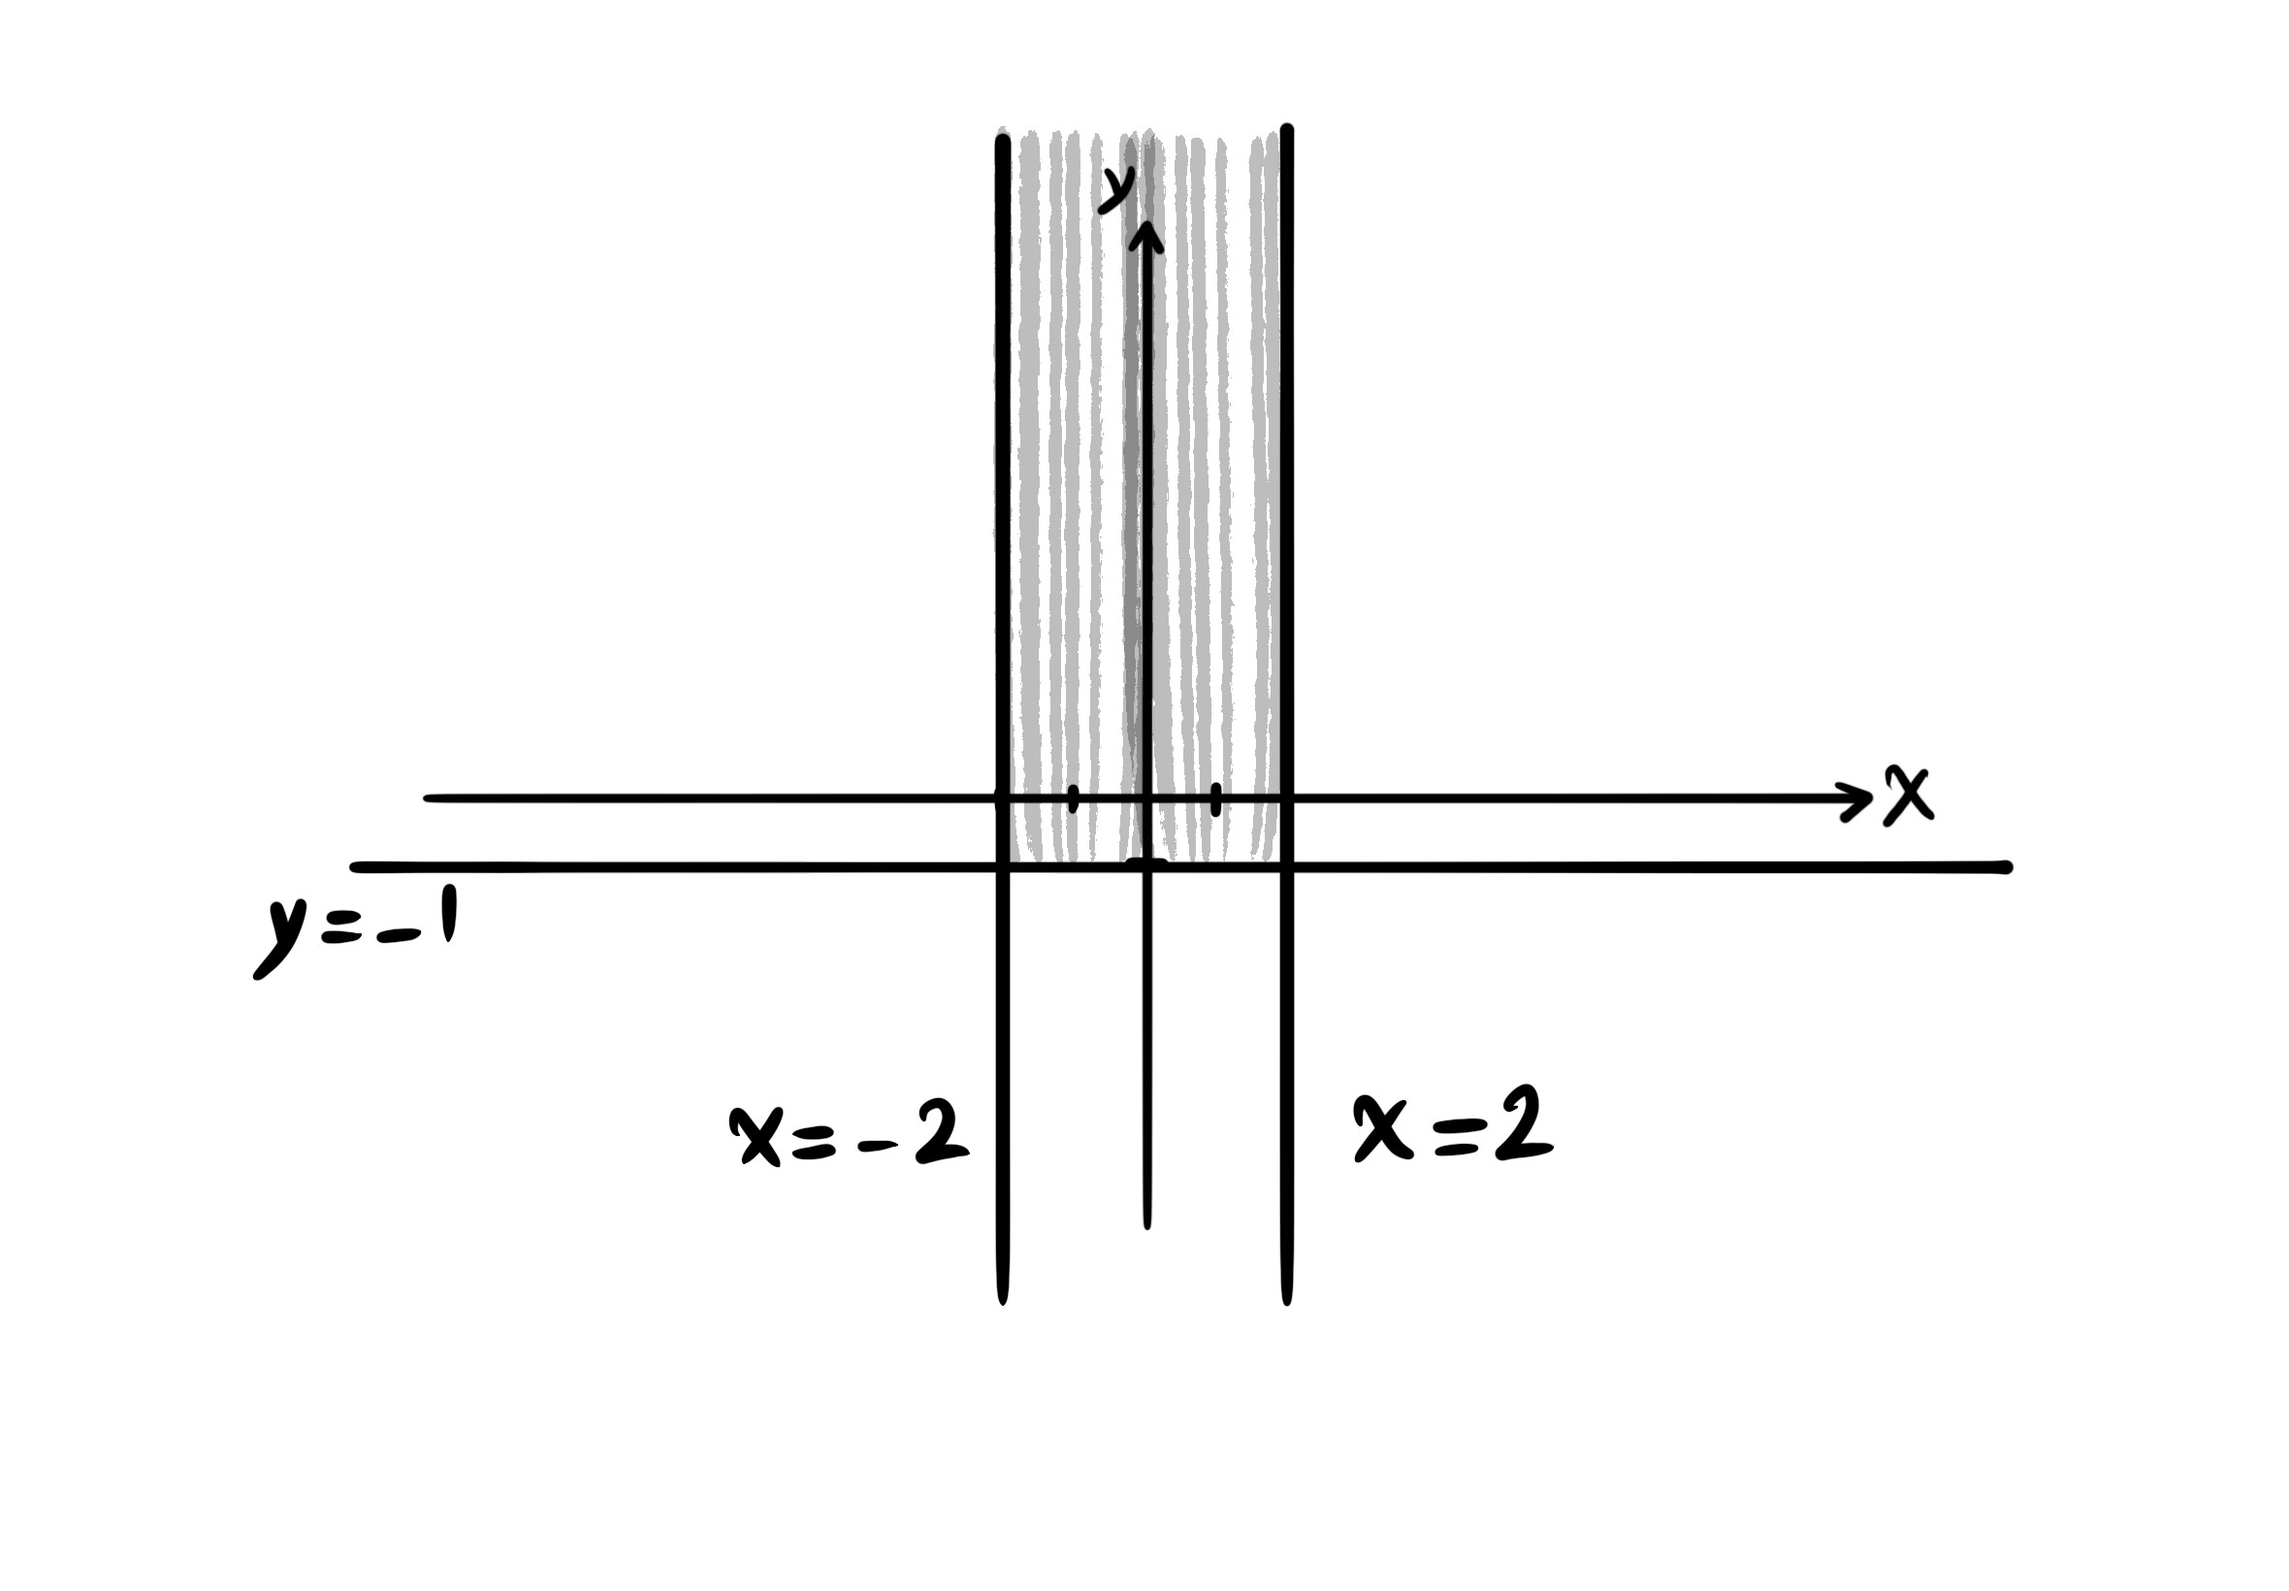
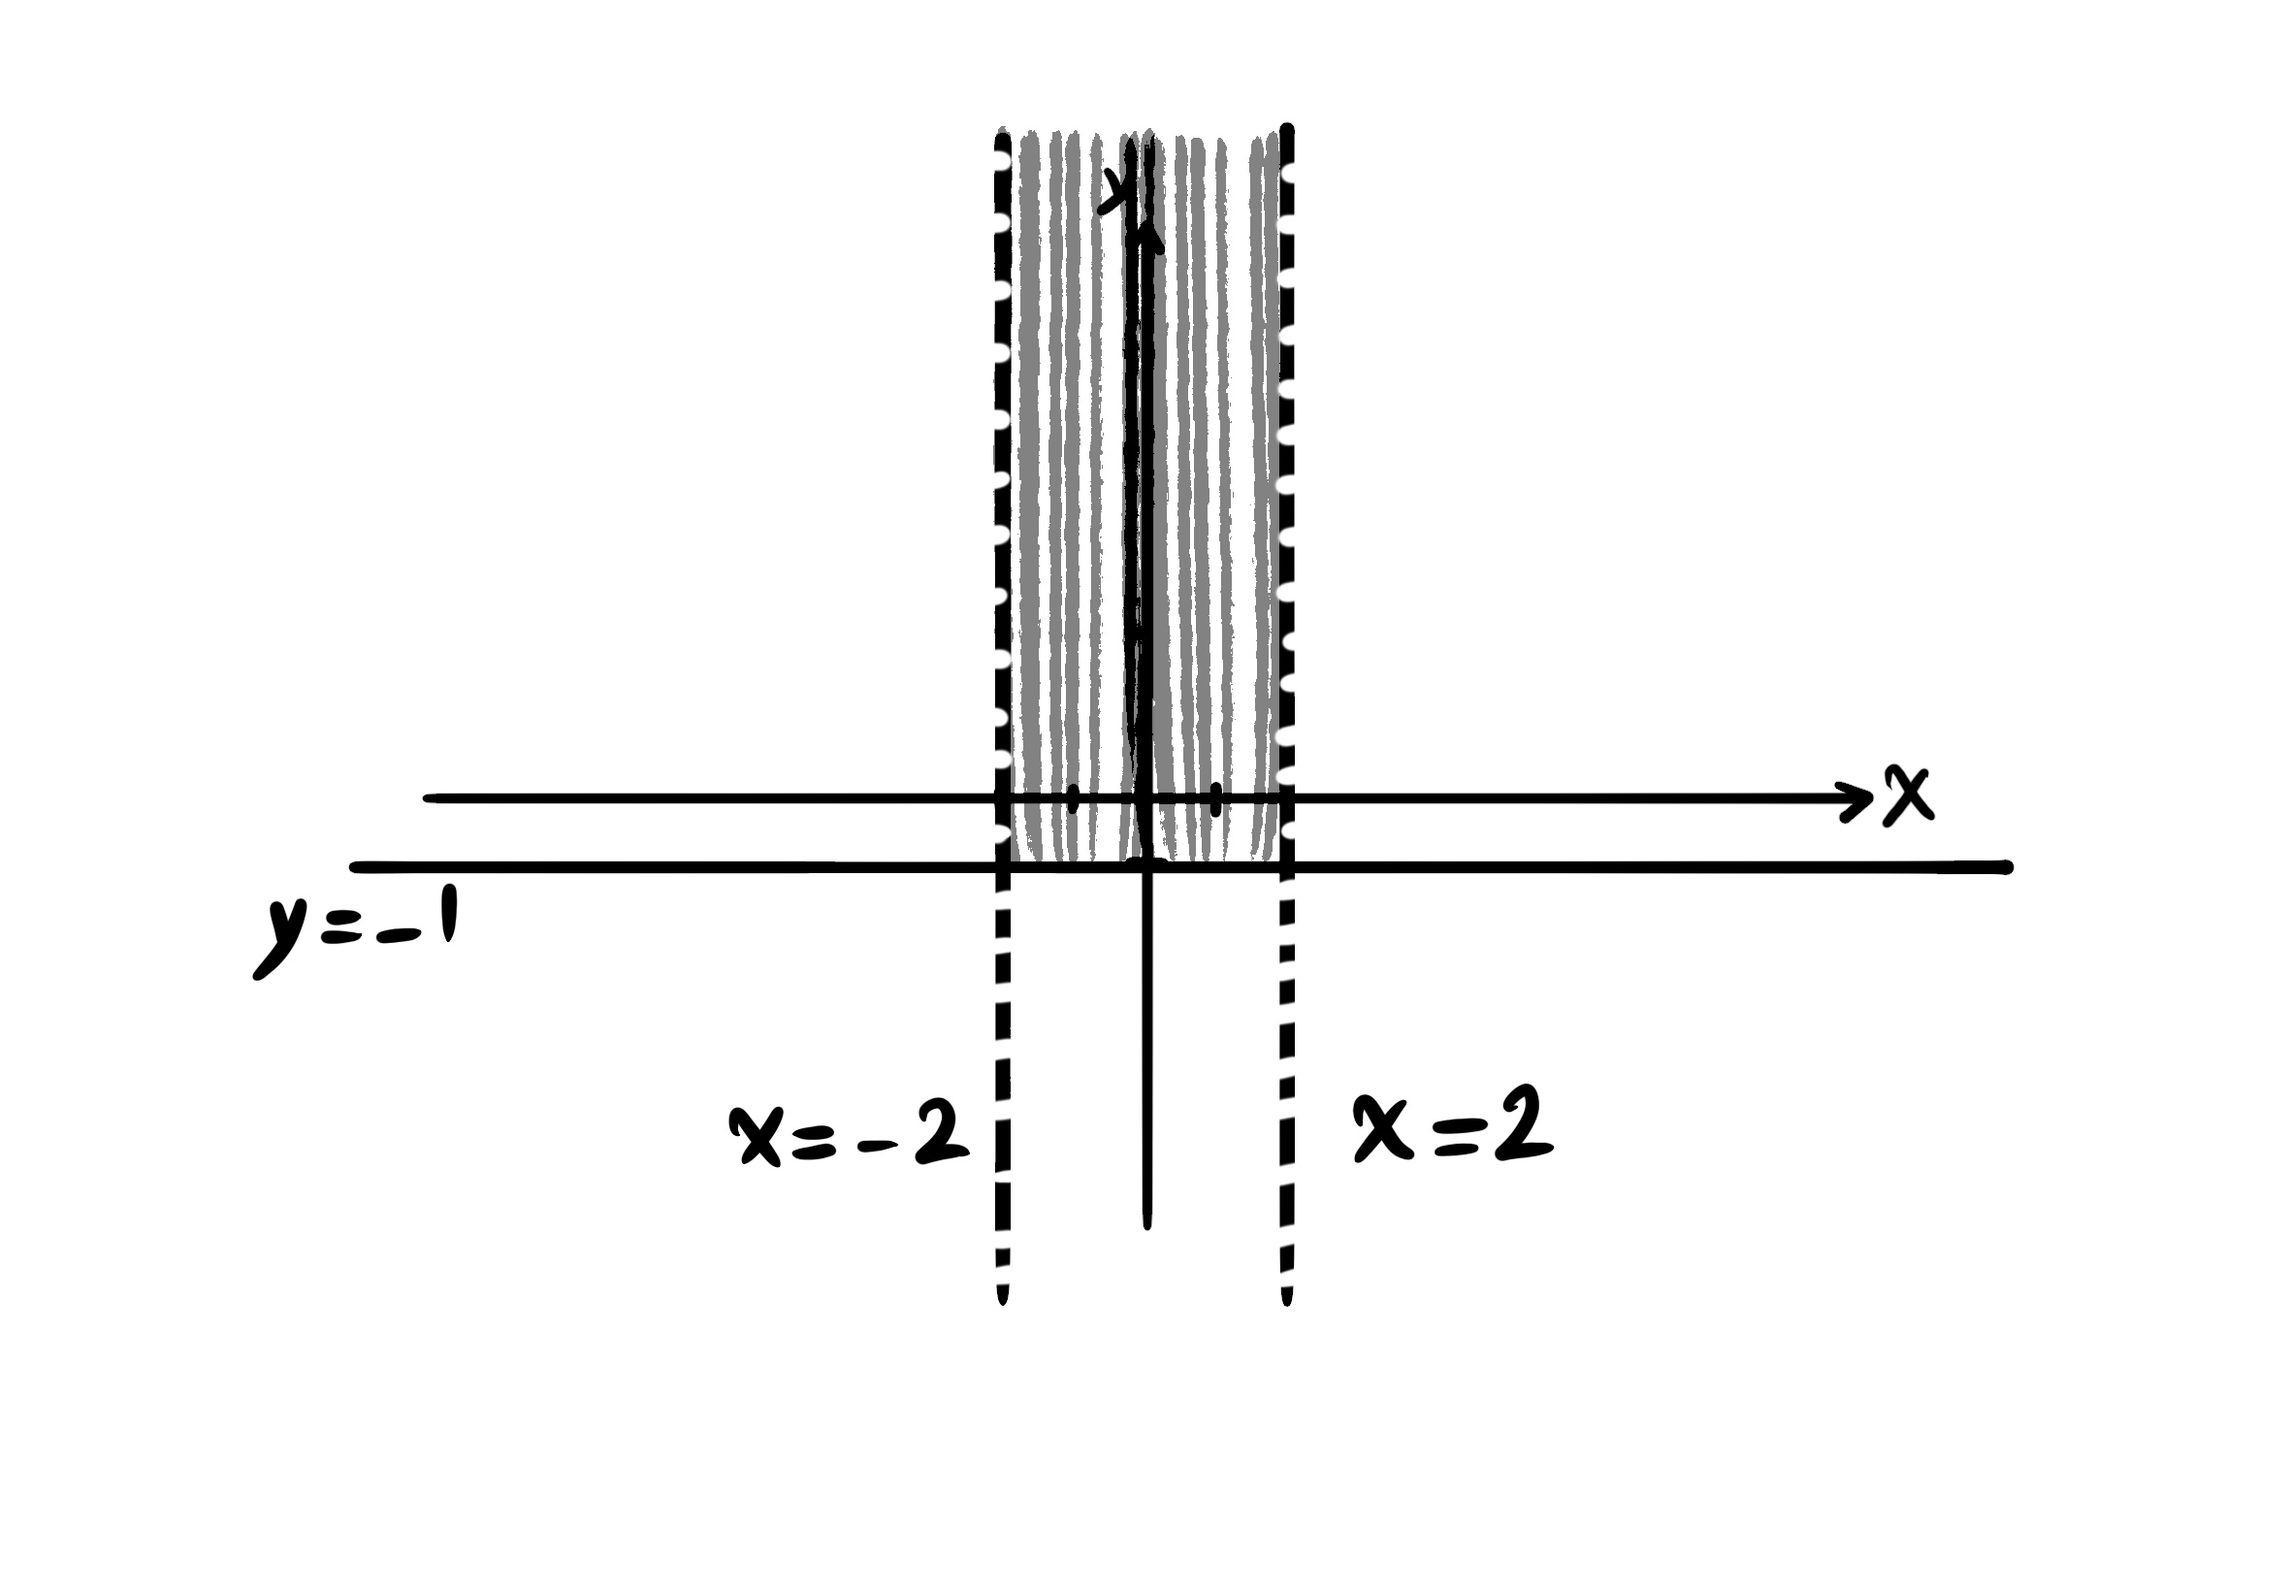
Fixed errors in the multivariable functions section.

diff --git a/docs/src/multivariablecalculus.md b/docs/src/multivariablecalculus.md
@@ -4,7 +4,7 @@ Description = "Multivariable Calculus"
 
 # Multivariable Functions
 
-In General Mathematics 1, we were introduced to one-variable functions ``y = f(x)``, that had only one independent variable as input, ``x``. But in reality most of the times, we are faced with functions that have more than one independent variable. These functions are called multivariable functions.
+In General Mathematics 1, we were introduced to one-variable functions ``y = f(x)``, which had only one independent variable as input, ``x``. But in reality most of the times, we are faced with functions that have more than one independent variable. These functions are called multivariable functions.
 
 ``y = f(x)`` is a univariate function.
 
@@ -16,7 +16,7 @@ The function sends the input to the output, ``x \mapsto y``.
 
 - A three-variable function is denoted by ``w = f(x, y, z)``.
 
-- An n-variballe function: ``f(x_1, x_2, ..., x_n)``.
+- An n-variable function: ``f(x_1, x_2, ..., x_n)``.
 
 A few simple examples that show the relevance of multivariable functions.
 
@@ -24,7 +24,7 @@ A few simple examples that show the relevance of multivariable functions.
 
 The area of a rectangle: ``f(x, y) = xy``.
 
-The volume of a sphere: ``V(x, y, z) = xyz``.
+The volume of a cuboid: ``V(x, y, z) = xyz``.
 
 The volume of a cylinder: ``V(r, h) = \pi r^2 h``.
 
@@ -36,32 +36,33 @@ The average of the ``n`` numbers ``x_1, x_2, ..., x_n``:
 
 ``f(x_1, x_2, ..., x_n) = \frac{1}{n} \sum_{i = 1}^n x_i``.
 
-## The Domain of Multivariale Functions
+## The Domain of Multivariable Functions
 
-The domain of the two-variable function ``f(x, y)`` is either a point in the ``x``-``y`` plane, or part, or the entire ``x``-``y``coordinate system ``\mathbb{R}^2``.
+The domain of the two-variable function ``f(x, y)`` is either a point in the ``x``-``y`` plane, or part of, or the entire ``x``-``y``coordinate system ``\mathbb{R}^2``.
 
 ![2](./assets/multivariablecalculus/2.jpg)
 
 ### Examples
 
-Find the domain of the follwoing functions and then plot it as a shape.
+Find the domain of the following functions and then plot it as a shape.
 
 *Example A.* ``f(x, y) = 2x^3 y + x^2 y^2 - y + 5``
+
 ``D_f = \{ (x, y) | x \in \mathbb{R}, y \in \mathbb{R} \} = \mathbb{R}^2``.
 
 ![3](./assets/multivariablecalculus/3.jpg)
 
 *Example B.* ``f(x, y) = \frac{1}{x - y}``
 
-``D_f = \{ (x, y) | x - y \neq 0 \} = \{ (x, y) | x \neq y \}``.
+``D_f = \{ (x, y) | x, y \in \mathbb{R}, x - y \neq 0 \} = \{ (x, y) | x \neq y \}``.
 
-The whole plane, with the line ``y = x`` removed.
+The whole plane, without the line ``y = x``.
 
 ![4](./assets/multivariablecalculus/4.jpg)
 
 *Example C.* ``f(x, y) = \sqrt{x - y}``
 
-``D_f = \{ (x, y) | x - y \geq 0 \} = \{ (x, y) | x \geq y \}``.
+``D_f = \{ (x, y) | x, y \in \mathbb{R}, x - y \geq 0 \} = \{ (x, y) | x \geq y \}``.
 
 On and under the line `` y = x``.
 
@@ -69,17 +70,19 @@ On and under the line `` y = x``.
 
 *Example D.* ``f(x, y) = \frac{\sqrt{y - 3}}{\sqrt{5 - x}}``
 
-``D_f = \{ (x, y) | y - 3 \geq 0, 5 - x > 0 \} = \{ (x, y) | y \geq 3, x < 5 \}``.
+``D_f = \{ (x, y) | x, y \in \mathbb{R}, y - 3 \geq 0, 5 - x > 0 \} = \{ (x, y) | y \geq 3, x < 5 \}``.
 
 ![6](./assets/multivariablecalculus/6.jpg)
 
-*Example E.* ``f(x, y) = \frac{\sqrt{y + 1}}{\sqrt[n]{2 - |x|}}``
+*Example E.* ``f(x, y) = \frac{\sqrt{y + 1}}{\sqrt[4]{2 - |x|}}``
 
-``D_f = \{ (x, y) | y + 1 \geq 0, 2 - |x| > 0 \} = \{ (x, y) | y \geq -1, -2 < x < 2 \}``.
+``D_f = \{ (x, y) | x, y \in \mathbb{R},  y + 1 \geq 0, 2 - |x| > 0 \} = \{ (x, y) | y \geq -1, -2 < x < 2 \}``.
 
 ![7](./assets/multivariablecalculus/7.jpg)
 
-The shape of two-variable functions are going to be three-dimensional plots, which are also called surfaces.
+The lines ``x = 2`` and ``x = -2`` are excluded from the domain of the function ``f(x, y)``.
+
+The shape of two-variable functions are surfaces that are embedded in three-dimensional plots.
 
 ![8](./assets/multivariablecalculus/8.jpg)
 
@@ -91,7 +94,7 @@ Since drawing three-dimensional shapes is time consuming, we just make a few exa
 
 ![9](./assets/multivariablecalculus/9.jpg)
 
-And by induction in this way, the domain of the three-variable function ``w = f(x, y, z)`` is three-dimensional, and its plot is four-dimensional.
+And by induction in this way, the domain of the three-variable function ``w = f(x, y, z)`` is three-dimensional, and the plot of its shape is embedded in the four-dimensional space.
 
 # Partial Derivatives
 
@@ -655,8 +658,8 @@ The volume is equal to: ``S = (32 - 22) - (4 - 5.5) = 10 - (-1.5) = 10 + 1.5 = 1
 
 ``\int \int_A f(x, y) dA = \int_a^b \int_c^{h(x)} f(x,y) dy \ dx``.
 
-# The Applications of Dual Integrals
+# The Applications of Double Integrals
 
 # Reference
 
-- Dr. M.A. Kerayeh Chyan, General mathematics 2, 2022.
+- Dr. M.A. Kerayeh Chyan, General mathematics 2, 2021.
